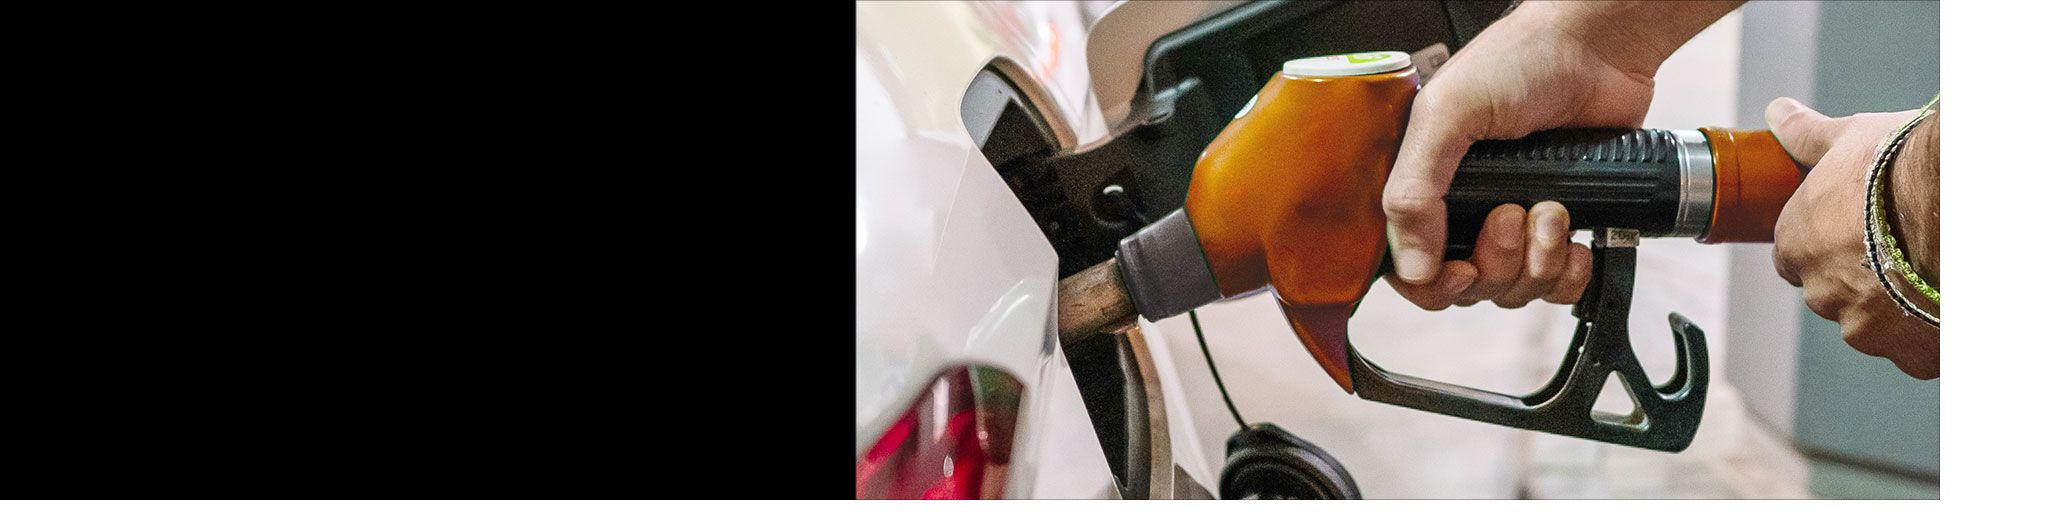
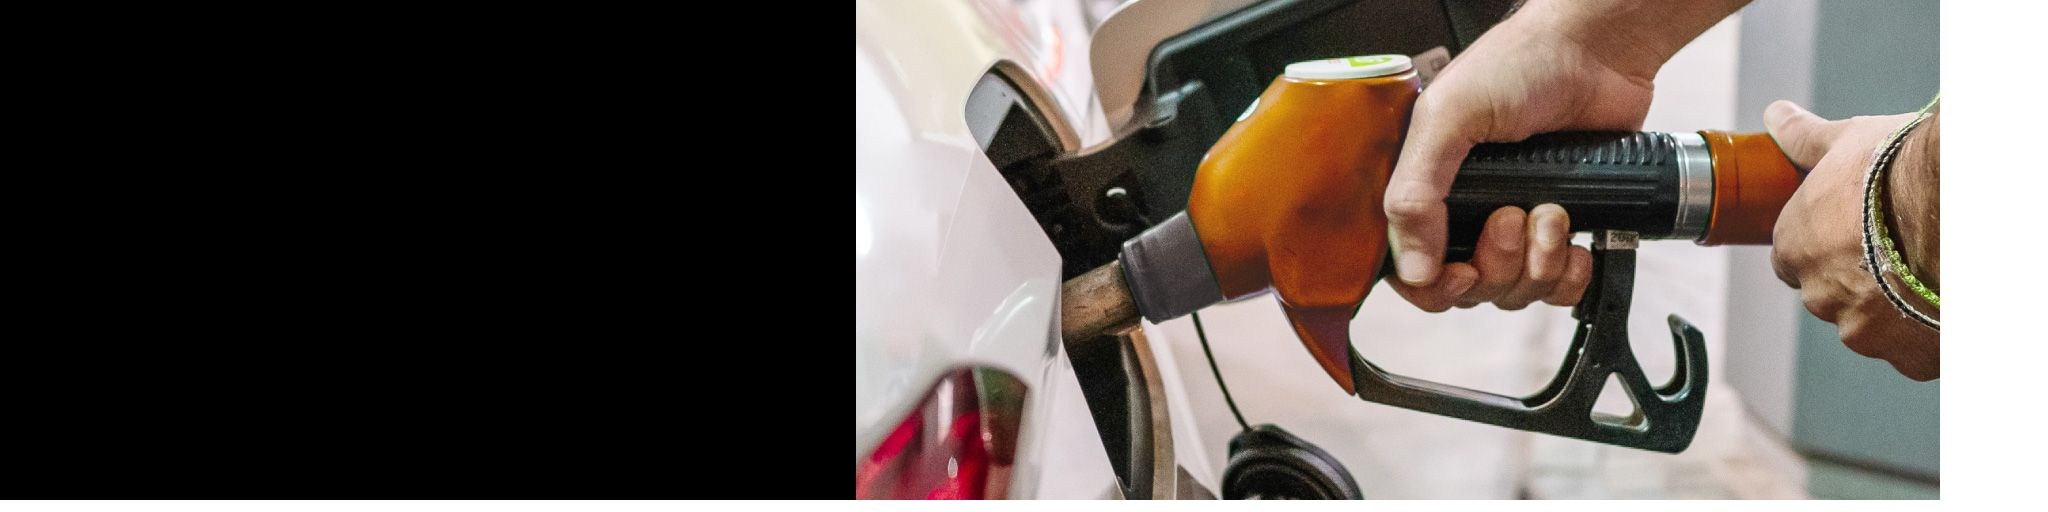
Add files via upload

diff --git a/pump/970x250/WSPA-Pump-970x250.js b/pump/970x250/WSPA-Pump-970x250.js
@@ -27,7 +27,7 @@ lib.ssMetadata = [
 
 
 
-(lib.BKGD = function() {
+(lib.pumpbkgd = function() {
 	this.initialize(ss["WSPA_Pump_970x250_atlas_1"]);
 	this.gotoAndStop(0);
 }).prototype = p = new cjs.Sprite();
@@ -673,7 +673,7 @@ if (reversed == null) { reversed = false; }
 	this.instance = new lib.CTA();
 	this.instance.setTransform(312.4,223.6);
 
-	this.timeline.addTween(cjs.Tween.get(this.instance).wait(71).to({scaleX:1.3,scaleY:1.3},3).to({scaleX:1,scaleY:1},5).wait(40));
+	this.timeline.addTween(cjs.Tween.get(this.instance).wait(95).to({scaleX:1.3,scaleY:1.3},3).to({scaleX:1,scaleY:1},5).wait(16));
 
 	// HEAD1
 	this.instance_1 = new lib.HEAD1();
@@ -689,7 +689,7 @@ if (reversed == null) { reversed = false; }
 	this.instance_2.alpha = 0;
 	this.instance_2._off = true;
 
-	this.timeline.addTween(cjs.Tween.get(this.instance_2).wait(23).to({_off:false},0).to({x:1034.2,alpha:1},14,cjs.Ease.quintOut).wait(82));
+	this.timeline.addTween(cjs.Tween.get(this.instance_2).wait(37).to({_off:false},0).to({x:1034.2,alpha:1},14,cjs.Ease.quintOut).wait(68));
 
 	// SUB
 	this.instance_3 = new lib.SUB();
@@ -697,7 +697,7 @@ if (reversed == null) { reversed = false; }
 	this.instance_3.alpha = 0;
 	this.instance_3._off = true;
 
-	this.timeline.addTween(cjs.Tween.get(this.instance_3).wait(51).to({_off:false},0).to({x:209.6,alpha:1},14,cjs.Ease.quintOut).wait(54));
+	this.timeline.addTween(cjs.Tween.get(this.instance_3).wait(65).to({_off:false},0).to({x:209.6,alpha:1},14,cjs.Ease.quintOut).wait(40));
 
 	// LOGO
 	this.instance_4 = new lib.LOGO();
@@ -706,7 +706,7 @@ if (reversed == null) { reversed = false; }
 	this.timeline.addTween(cjs.Tween.get(this.instance_4).wait(119));
 
 	// BKGD
-	this.instance_5 = new lib.BKGD();
+	this.instance_5 = new lib.pumpbkgd();
 	this.instance_5.setTransform(0,0,0.5,0.5);
 
 	this.timeline.addTween(cjs.Tween.get(this.instance_5).wait(119));
